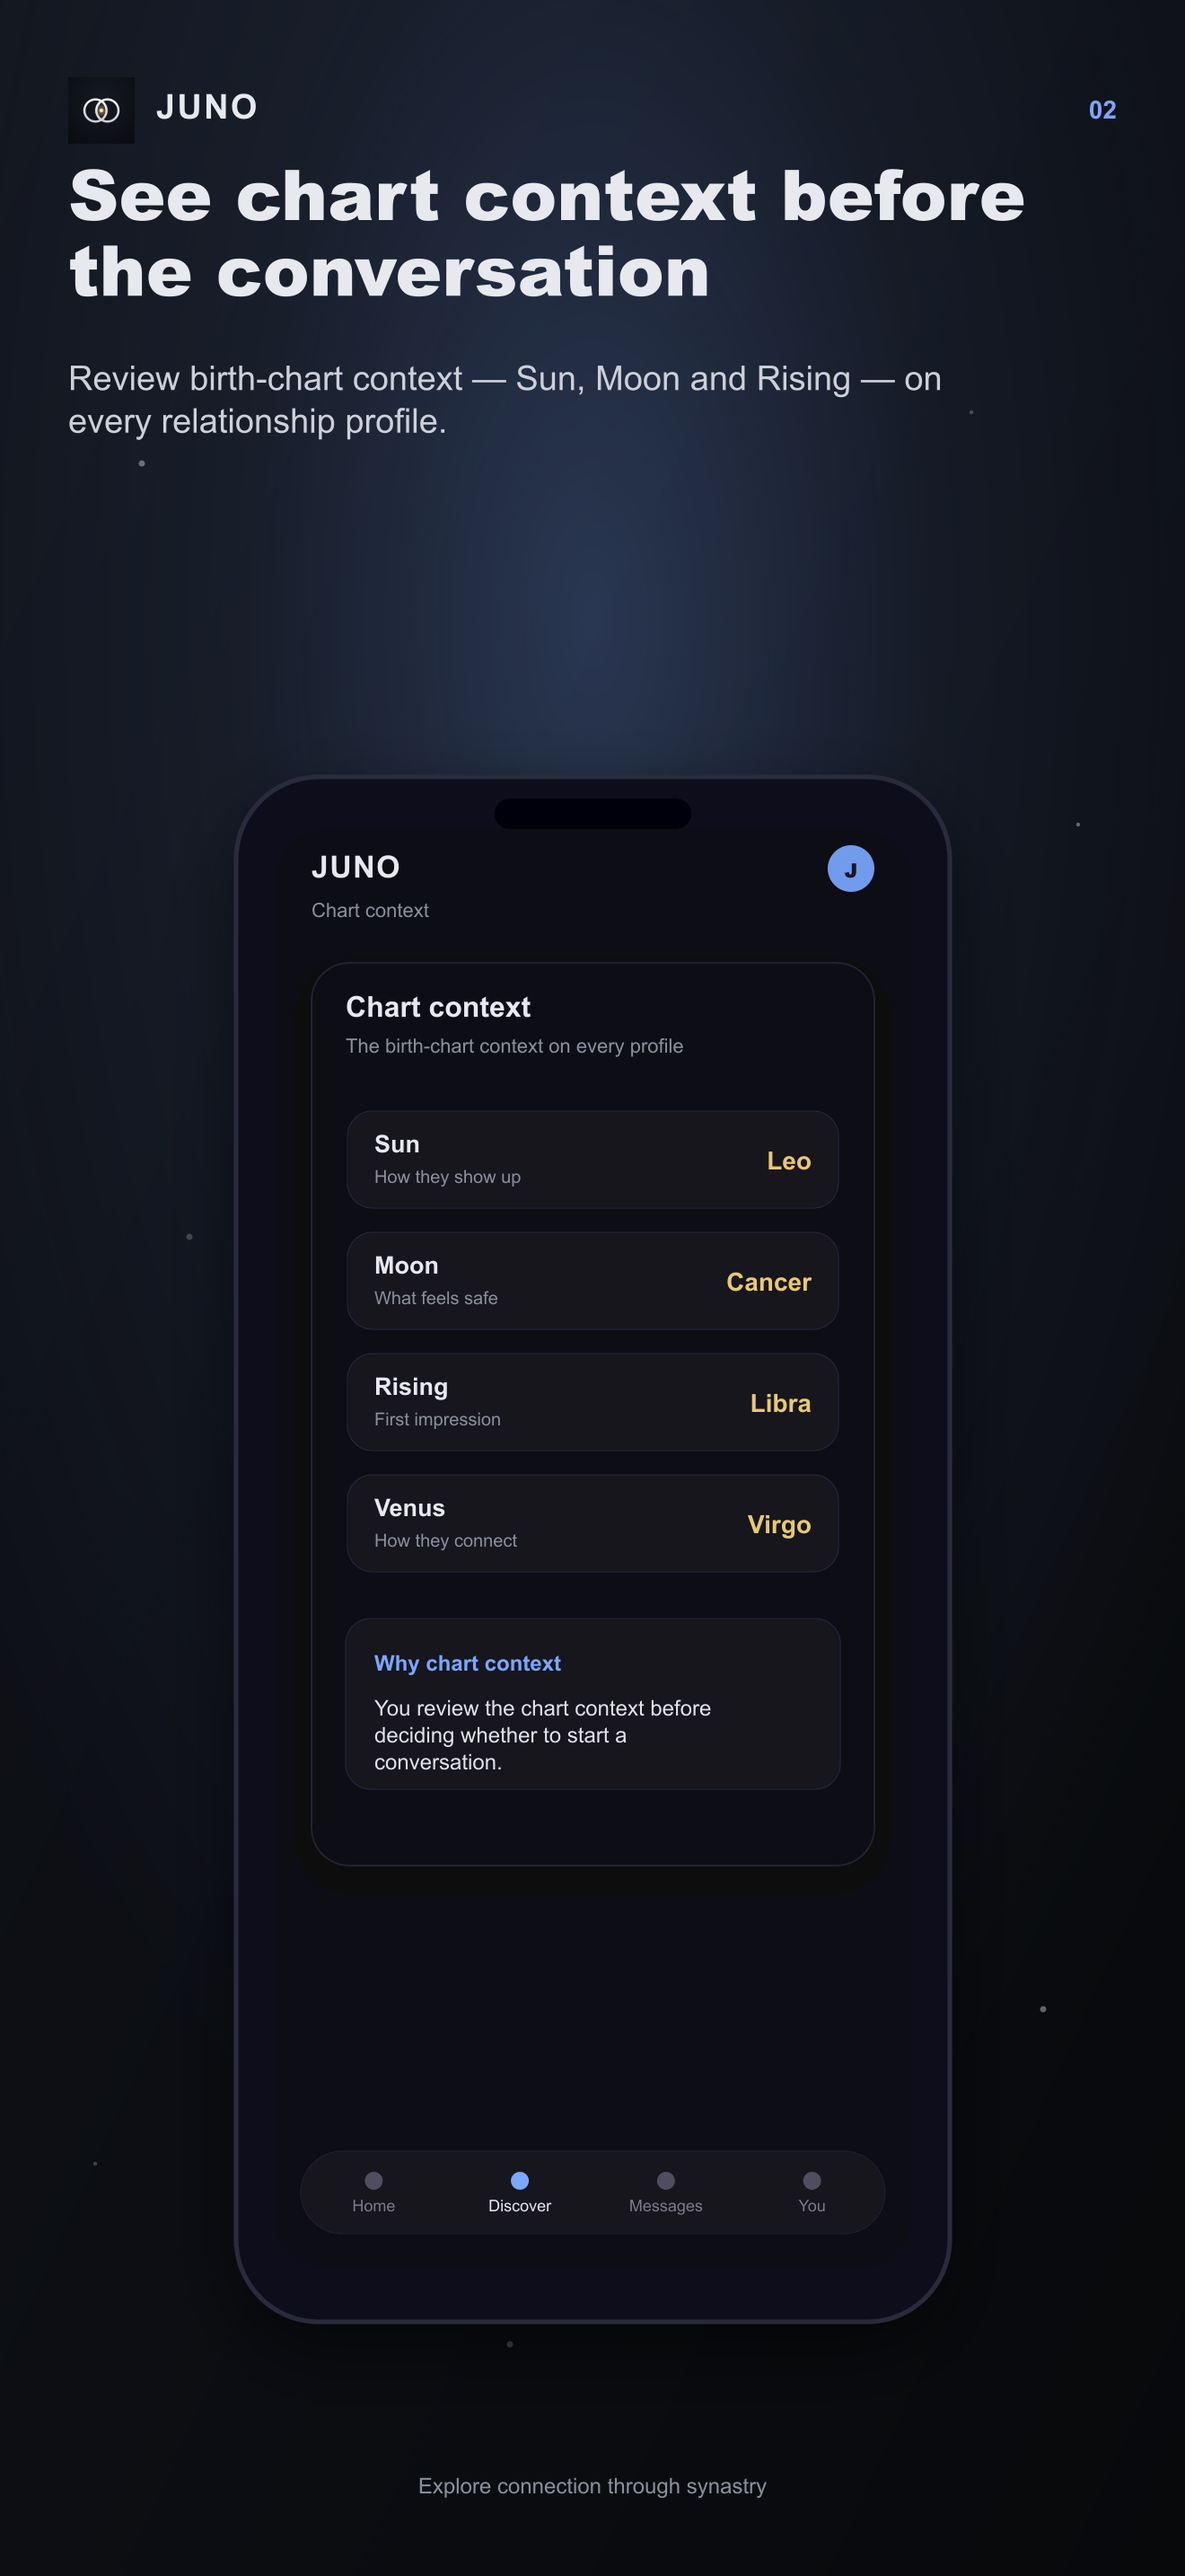
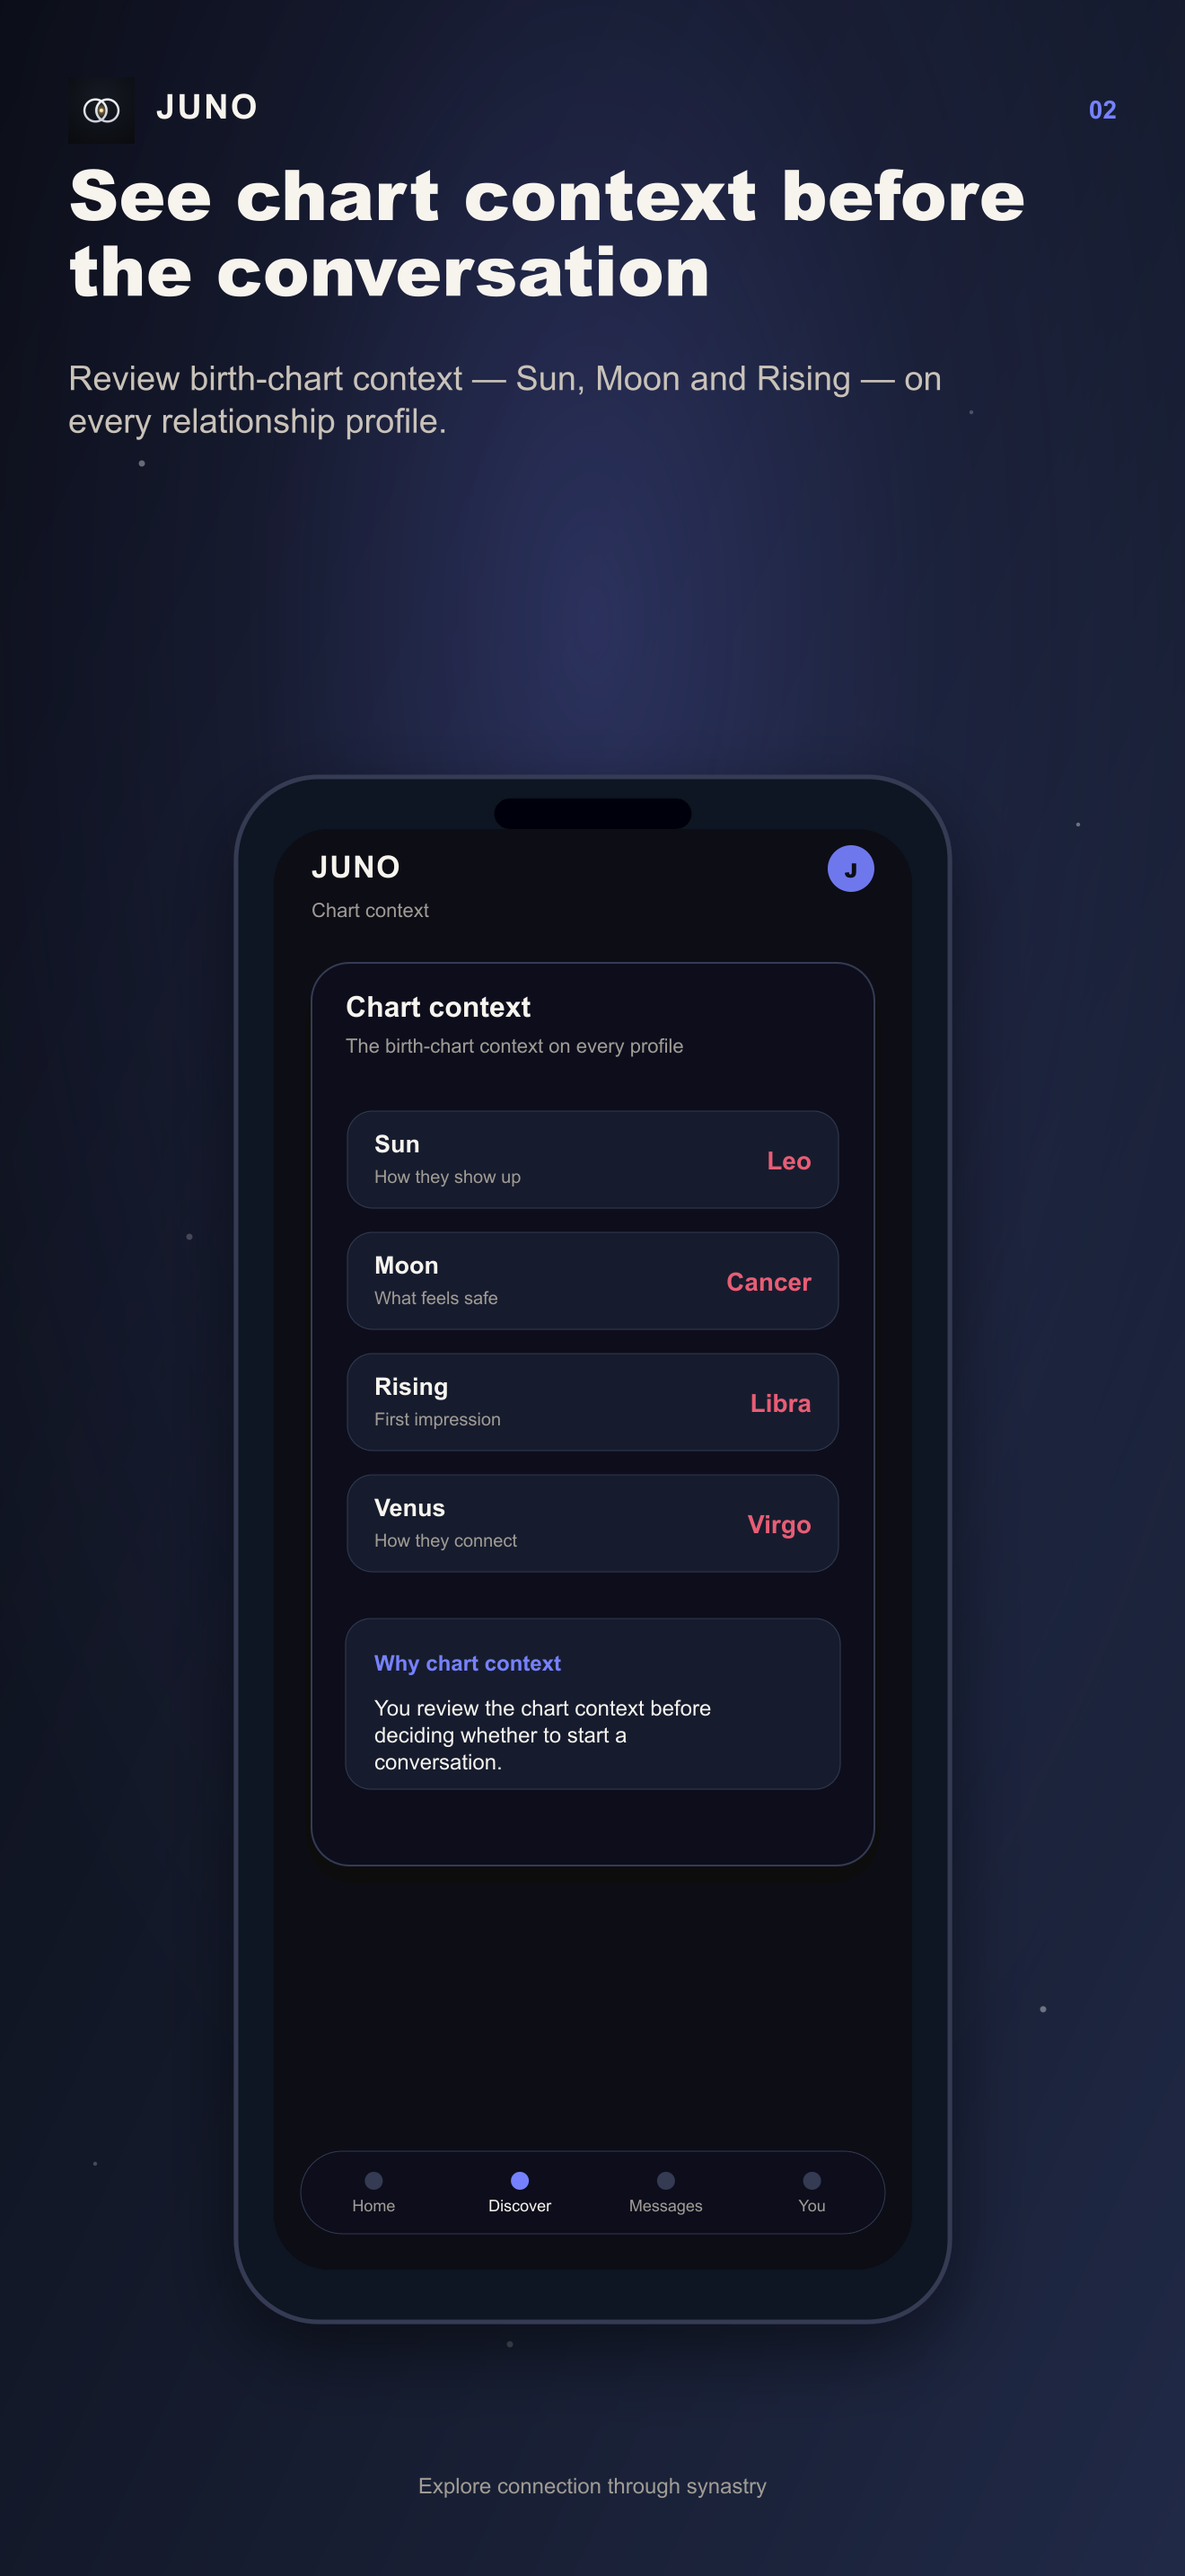
chore(store): update JUNO store assets and metadata
The screenshot generators move off ad-hoc hexes onto named constants
that mirror the web app's tokens, and the ten App Store captures are
regenerated from them.

The PWA host in the metadata becomes `https://app.junosynastry.com`.
That is not aspirational: middleware.ts already treats it as
CANONICAL_APP_HOST and keeps app.astrodatingapp.com in APP_HOSTS as the
legacy entry, so links in circulation keep working. The doc now
describes shipped behaviour rather than a pending manual action.

ONE THING TO KNOW BEFORE THE NEXT REGENERATION. These generators were
aligned to the palette as it stood this morning, and three of their
constants have moved since:

  BG_SECONDARY  #141a2b  ->  #131829
  BG_TERTIARY   #202946  ->  #1e2540
  PURPLE        #7681ff  ->  #8b87ff

More significant than the drift: this change deleted the generator's
GOLD constant and replaced its gold accents with coral and purple —
which is the opposite direction from where the product went a few hours
later (feat/gold-visual-refresh). Committing it as-is keeps the store
assets consistent with the version actually in the Play Store today
(125, old palette), which is the right call for now. When the gold
repaint ships, these want regenerating against the new tokens, and gold
belongs back in them.

diff --git a/docs/app-store/juno-metadata.md b/docs/app-store/juno-metadata.md
@@ -204,7 +204,7 @@ Thank you for the review. To clarify: JUNO is a synastry-led relationship discov
 |---|---|---|
 | Canonical public website | `https://www.junosynastry.com` | The JUNO brand domain. Used as the App Store / Play Store **Marketing URL**, **Support URL** (`/contact`) and **Privacy Policy URL** (`/privacy`). Apex `junosynastry.com` must 301-redirect to `www`. |
 | Legacy public website | `astrodatingapp.com` | Kept live as a **301 transition redirect** to `www.junosynastry.com`. No longer the canonical domain in any store/marketing surface. |
-| Web-app subdomain (PWA) | `app.astrodatingapp.com` | **Operational identifier — unchanged.** This is the host users load the PWA from; the OAuth redirect allowlist, Supabase edge-function CORS allowlist and middleware `APP_HOSTS` are all keyed to it. Moving it requires DNS + provider-config changes and is tracked as a separate manual action. |
+| Web-app subdomain (PWA) | `https://app.junosynastry.com` | Canonical host users load the PWA from. `app.astrodatingapp.com` remains allowed during the transition so existing users and links keep working. |
 
 App Store Connect URLs to use at submission:
 
